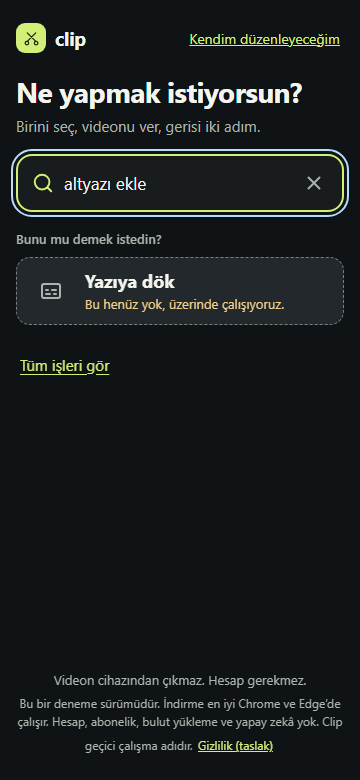
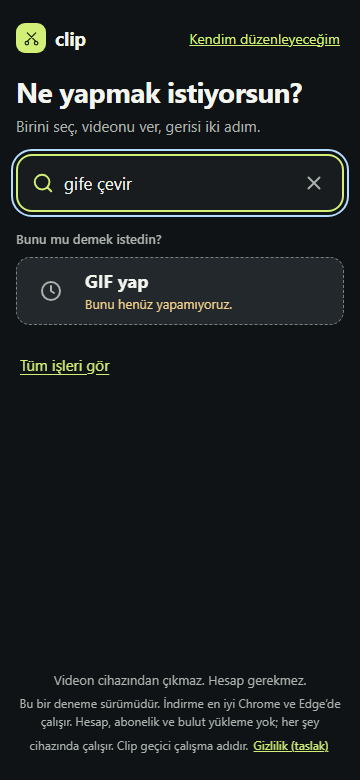
Ara kayıt: belgeler (ADR-034 kart listesi ve kurallar, README, kullanıcı testi kiti) ve ekran görüntüleri (01–05 yenilendi, 75-sesi-kapat-*)

diff --git a/docs/adr/ADR-034-task-first-home.md b/docs/adr/ADR-034-task-first-home.md
@@ -6,6 +6,9 @@
 > [ADR-030](ADR-030-kesit-flow-v2.md) (kesit editörü) aynen duruyor ve "Kes" işinin kendisi;
 > [ADR-031](ADR-031-phone-share-install-offline.md)'in manifest başlangıç adresi değişti.
 > Şema (EDL v2) ve politika (`2026-09-24.v6`) **değişmedi**; dışa aktarma motoru değişmedi.
+> **Güncelleme 7 Ekim 2026:** dokuzuncu kart "Sesi kapat"; yapılamayan on istek aramada dürüst
+> yanıt alıyor; arama kuralları 5 ve 7; müzik artık indirmenin tamamına yayılıyor (aşağıda
+> ilgili yerler güncellendi, sonda "Güncelleme — 7 Ekim 2026").
 
 ## Neden
 
@@ -37,8 +40,9 @@ arama olmadan çalışıyor; göreve göre düzenlenmiş gezinme özelliğe gör
 3. **Her iş bir sihirbaz**, kendi adresinde (`/yap/<id>/`): (1) "Videonu seç", (2) en fazla
    **bir** karar — varsayılanı seçili —, (3) "İndir" → ilerleme → "Kaydedildi" + "Paylaş".
    Sihirbazlar editörün kendi tarifini ve kendi indirme yolunu kullanır; yeni bir motor yok.
-4. **Henüz yapılmamış iş sahte gösterilmez:** kartı yoktur, sayfası yoktur; arama onu
-   kastederse "Bu henüz yok, üzerinde çalışıyoruz." yazar ve düğme çizmez.
+4. **Yapılamayan iş sahte gösterilmez:** kartı yoktur, sayfası yoktur; arama onu
+   kastederse "Bunu henüz yapamıyoruz." yazar ve düğme çizmez (7 Ekim 2026'ya kadar cümle "Bu
+   henüz yok, üzerinde çalışıyoruz." idi; söz vermediğimiz işler için söz veren cümle kaldırıldı).
 5. **Editör `/editor`'de aynen durur**; logosu açılış ekranına götürür.
 
 ## Açılış ekranı
@@ -47,8 +51,9 @@ arama olmadan çalışıyor; göreve göre düzenlenmiş gezinme özelliğe gör
 |---|---|
 | Kutu | `role="combobox"`, `aria-controls` ile sonuç listesine (`role="listbox"`), `aria-activedescendant` ile vurgulu sonuca bağlı; odak hep kutuda. ↑/↓ sonuçta gezer (başa sarar), Enter vurgulu sonucu başlatır, Esc kutuyu boşaltır, × de. Sonuç sayısı `role="status"` ile duyurulur ("2 sonuç. İlki: Dikey yap."). |
 | Örnek cümleler | "sessiz yerleri sil", "TikTok için dikey", "başını kes", "müzik koy": dokununca kutuya yazılır. Hepsi bugün çalışan bir işe götürür (birim testi). |
-| Kartlar | Kayıttaki sırayla, yalnızca `available: true` işler: Kes (dolu, öne çıkan kart), Boşlukları at, Dikey yap, Küçült, Müzik ekle, Sesini al, Her yerde açılsın (Küçült ve Sesini al [ADR-035](ADR-035-target-size-and-audio-only.md) ile açıldı). Kart bir bağlantıdır (JavaScript olmadan da çalışır), en az 126 px yüksek. Telefonda 2 sütun; 700 px'ten itibaren 3; 1000 px'ten itibaren satırları dolduruyorsa 4 (8 kart → 4 + 4; bugünkü 7 kart → 4 + 3; 5 kart → 3 + 2, tek kalan kart olmasın diye). Hiçbir kart gizlenmez. |
+| Kartlar | Kayıttaki sırayla, yalnızca `available: true` işler — bugün dokuz: Kes (dolu, öne çıkan kart), Boşlukları at, Dikey yap, Küçült, Yazıya dök, Müzik ekle, Sesini al, **Sesi kapat**, Her yerde açılsın (Küçült ve Sesini al [ADR-035](ADR-035-target-size-and-audio-only.md), Yazıya dök [ADR-036](ADR-036-on-device-transcript.md), Sesi kapat 7 Ekim 2026). Kart bir bağlantıdır (JavaScript olmadan da çalışır), en az 126 px yüksek. Telefonda 2 sütun; 700 px'ten itibaren 3; 1000 px'ten itibaren, son satırda tek kart kalmayacak biçimde 3 ya da 4 (`wideColumns`: önce satırları tam dolduran — 8 → 4 + 4, 9 → 3 + 3 + 3, 6 → 3 + 3 —, sonra son satırı en dolu olan — 7 → 4 + 3, 10 → 4 + 4 + 2, 5 → 3 + 2). Hiçbir kart gizlenmez. |
 | Yazınca | Kartlar ve örnekler yerini "Bunu mu demek istedin?" listesine bırakır (en fazla 3 satır; her satırda "Başla"). Kutuyu boşaltmak ya da "Tüm işleri gör" kartları geri getirir. Tek harf ya da yalnızca "video" yazmak henüz bir şey söylememektir: kartlar durur. |
+| Yapılamayan istek | Kayıtta `available: false` olan on giriş (döndür, hızlandır / yavaşlat, videoları birleştir, GIF, filigran ya da logo sil, filtre ve renk, arka plan, tersten oynat, videodan fotoğraf, titremeyi düzelt): satırda işin adı ve **"Bunu henüz yapamıyoruz."**, düğme yok, `aria-disabled`; Enter ve dokunma hiçbir şey başlatmaz; duyuru "1 sonuç. İlki: Döndür. Bunu henüz yapamıyoruz." Altında başka iş yapan bir kart önerilmez (kural 7). |
 | Bulunamadı | "Bunu bulamadım. Başka kelimelerle dene ya da bütün işlere bak." + "Tüm işleri gör". |
 | Yük | Açılış ekranı dışa aktarma motorunu (mediabunny) yüklemez, worker başlatmaz, başka kökene istek yapmaz (e2e). |
 
@@ -69,11 +74,17 @@ Girdi → sıralı işler; tamamı `searchTasks()` içinde, saf fonksiyon:
 4. **Puan:** güçlü kelime tam 3, kök/ön ek/yazım hatası 2; zayıf kelime ("ekle", "sil",
    "baş") tam 1, kök 0,75, yazım hatasıyla hiç.
 5. **Deyim:** birkaç sözcük sırayla geçiyorsa +4 ("her yerde", "sessiz yer", "make it
-   vertical"); deyimlerde atılan sözcükler de sayılır.
+   vertical"); deyimlerde atılan sözcükler de sayılır. İkinciden sonraki her sözcük +1: uzun
+   deyim daha özeldir ("arka plan değiştir" arka planla ilgilidir; yalnız "arka plan" müzik
+   isterken söylenir). Bir işin yalnızca en uzun deyimi sayılır. *(7 Ekim 2026)*
 6. **Sıralama:** puana göre; eşitlikte daha özel iş öne (herkesin her iş için söylediği
    "kes / cut / sil" genel işi geri çeker: "cut the pauses" → Boşlukları at), sonra kayıt
    sırası. En fazla üç sonuç, yalnızca en iyinin %40'ı ve üstü (tek bir zayıf kelime ikinci
    satır açmaz: "altyazı ekle" yalnızca Yazıya dök).
+7. **Yapılamayan iş birinciyse** ("gife çevir", "tiktok logosunu kaldır") yanıt "Bunu henüz
+   yapamıyoruz."dur ve isteğin yalnızca bir kelimesini taşıyan çalışan iş ("çevir" → Her yerde
+   açılsın, "tiktok" → Dikey yap) altında gösterilmez: çalışan bir işin satırı ancak puanı
+   birincinin %80'i ve üstüyse kalır ("döndür ve kes": ikisi de). *(7 Ekim 2026)*
 
 Kelime listeleri iş kaydındadır (`web/src/domain/tasks.ts`): her iş için güçlü kelimeler,
 zayıf kelimeler ve deyimler, Türkçe ve İngilizce.
@@ -91,10 +102,21 @@ zayıf kelimeler ve deyimler, Türkçe ve İngilizce.
   %86'dır, düzeltmeden sonraki sayı değil, çünkü tablo artık görülmüş bir tablodur.
   Test, oranın %80'in altına düşmesini engeller.
 
+- `tests/unit/taskSearchHeldOut2.test.ts` *(7 Ekim 2026)* — "Sesi kapat" ve yapılamayan istekler
+  için 95 cümle, o girişlerin listelerinden **önce** yazıldı. Üç ölçüm: eski kayıtla 13 / 95
+  (yalnızca zaten var olan işlerin 13 cümlesi; kalan 82'nin **44'ü başka iş yapan, "Başla"
+  düğmeli bir karta** gitti — 14 ses kapatma isteğinin 13'ü, yapılamayan 68 isteğin 31'i —,
+  38'i "Bunu bulamadım"a); yeni girişlerle ilk koşu **69 / 95 (%73)**, yapılamayan 68 isteğin
+  12'si hâlâ yanlış karta; kaçanlar listelerde düzeltildikten sonra 95 / 95, yanlış kart 0.
+  Dürüst tahmin %73'tür. Bu tablo ile listeleri aynı kişi aynı oturumda yazdı: "görülmemiş"
+  burada "listeler tabloya bakılmadan yazıldı" demektir, "kör" değil.
+
 Bilinen sınır: listede olmayan bir söyleyiş bulunmaz ("Bunu bulamadım" der, kartlar bir
-dokunuş ötededir); "sesini kapat" gibi karşılığı bir iş olmayan istekler yanlış işe
-(Sesini al) gidebilir. Gerçek kullanıcı cümleleri kullanıcı testlerinde toplanıp tabloya
-eklenmeli (docs/beta/USER_TEST_KIT.md, Görev 0).
+dokunuş ötededir). "Sesini kapat" artık "Sesi kapat"ı buluyor (7 Ekim 2026); yapılamayan on
+istek kendi dürüst satırını alıyor. Listelenmemiş bir yapılamayan istek (ör. "yüzleri
+bulanıklaştır", "videoya yazı ekle", "sesi değiştir", "çeviri altyazı") hâlâ ya bulunamaz ya
+da bir kelimesi tutan çalışan bir işe gider. Gerçek kullanıcı cümleleri kullanıcı testlerinde
+toplanıp tabloya eklenmeli (docs/beta/USER_TEST_KIT.md, Görev 0).
 
 ## İş kaydı ve sihirbaz çatısı
 
@@ -108,10 +130,12 @@ buradan okur.
 | Boşlukları at (`bosluk`) | evet | video → karar → indir | "Uzun boşluklar" (varsayılan) / "Kısa duraksamalar da" |
 | Dikey yap (`dikey`) | evet | video → karar → indir | "Doldur" (varsayılan) / "Sığdır" |
 | Küçült (`kucult`) | evet (ADR-035) | video → karar → indir | Nereye sığsın: "Paylaşmak için (52 MB altı)" (varsayılan) / "E-posta (25 MB altı)" / "WhatsApp (16 MB altı)"; her seçenek sonucu baştan söyler ("≈ 15,4 MB · 720p", "Videon zaten bunun altında", "Bu video buna sığmaz: en az … gerekir") |
-| Yazıya dök (`yazi`) | **hayır** | — | (cihazda transkript denemesi sürüyor) |
+| Yazıya dök (`yazi`) | evet (ADR-036) | video → karar → indir | (model indirme ve yazıya dökme; ayrıntı ADR-036) |
 | Müzik ekle (`muzik`) | evet | video → karar → indir | Videonun sesi "Kalsın" (varsayılan) / "Kapansın" |
 | Sesini al (`ses`) | evet (ADR-035) | video → indir | — (ses M4A olarak kaydedilir; sessiz videoda İndir kapalı ve sebebi yazılı) |
+| Sesi kapat (`sustur`) | evet (7 Ekim 2026) | video → indir | — (aynı video, ses izi olmadan; sesi olmayan videoda İndir kapalı ve sebebi yazılı) |
 | Her yerde açılsın (`cevir`) | evet | video → indir | — |
+| Döndür (`dondur`), Hızlandır ya da yavaşlat (`hiz`), Videoları birleştir (`birlestir`), GIF yap (`gif`), Filigran ya da logo sil (`filigran`), Filtre ve renk (`efekt`), Arka planı değiştir (`arkaplan`), Tersten oynat (`ters`), Videodan fotoğraf al (`foto`), Titremeyi düzelt (`stabil`) | **hayır** (7 Ekim 2026) | — | Motoru yok. Kartı, sayfası, sihirbazı yok; yalnızca aramanın "Bunu henüz yapamıyoruz." demesi için kayıttalar. |
 
 **Bir işi açmak:** `tasks.ts`'te `available: true` (tek satır) + `components/wizard/wizards.tsx`
 içinde sihirbaz bileşeni ve `WIZARDS` tablosunda satırı. Tablo `Record<AvailableTaskId, …>`
@@ -178,11 +202,28 @@ geri alma adımı).
 (dışa aktarmanın yaptığı orta kırpma / kenar boşluğuyla aynı geometri). Zaten 9:16 olan video
 için karar yok: "Bu video zaten dikey: görüntü aynı kalır, 1080 × 1920 olarak kaydedilir."
 
+**Sesi kapat** *(7 Ekim 2026)*. Karar yok. "Aynı video, sesi olmadan kaydedilir." Tarif kesitsizdir
+(bütün video), videonun sesi kapalıdır (editördeki "Sesi kapat" anahtarı), müzik yoktur; çıktıda
+**ses izi yoktur** — sessizlik izi değil. Neden: (1) her oynatıcı ve paylaşım uygulaması ses izi
+olmayan MP4'ü "sessiz video" olarak gösterir, sessizlik izi ise "sesi var ama duyulmuyor"
+görünür; (2) sessizlik izi boşuna bayt harcar (128 kbit/s AAC ≈ dakikada 1 MB) ve ADR-032'nin
+kodlayıcı gecikmesi / düzenleme listesi inceliklerini hiçbir şey için taşır; (3) motor bu dosyayı
+sesi olmayan kaynaklar için zaten yazıyor ve testler onu zaten ölçüyor — yeni bir yol açılmadı.
+Hızlı kesim (ADR-027) izin veriyorsa görüntü kopyalanır (sonuçtaki yöntem satırı: "Hızlı kesim —
+görüntü yeniden kodlanmadı, orijinal kalite"); değilse yeniden işlenir ve satır onu söyler.
+Önizleme sessiz oynar. Sesi olmayan videoda "Bu videoda zaten ses yok; kapatılacak bir şey yok."
+— İndir kapalı. Ölçülen (Playwright Chromium, 24 sn'lik 720p H.264 + AAC): kaydedilen dosyada tek
+akış `video:h264`, 24 sn, 1280 × 720, kareler kaynağın aynısı (0,5 / 11 / 23. sn'de fark < 1 / 255),
+dosya kaynaktan küçük; tarayıcının kendi oynatıcısı oynatıyor, çözdüğü ses baytı 0. **Denenmedi:**
+telefon, iOS / Safari, WhatsApp ve Instagram'ın ses izi olmayan videoyu nasıl gösterdiği.
+
 **Müzik ekle.** Kullanıcı kendi müzik dosyasını seçer (dosya seçmek karar sayılmaz). Karar:
 videonun kendi sesi "Kalsın" (müzik arkada, −12 dB) / "Kapansın" (yalnızca müzik, 0 dB). Müzik
 videodan uzunsa videonun sonunda 1,5 sn'de kısılır; kısaysa kendi sonunda biter ve söylenir
 ("Müzik videodan kısa: … sonra biter."). Sesi olmayan videoda soru sorulmaz, müzik tam seviyede.
-Müzik seçilmeden "İndir" kapalıdır ve nedenini söyler.
+Müzik seçilmeden "İndir" kapalıdır ve nedenini söyler. *(7 Ekim 2026: sihirbaz artık bütün videoyu
+tek kesit yapmıyor; müzik kesitsiz tarifte de indirmenin tamamına yayılıyor —
+`web/src/domain/musicFit.ts`. Editöre geçince kesit listesi boştur, üstte "Videoyu indir".)*
 
 **Her yerde açılsın.** Karar yok. "iPhone, HEVC ya da HDR videolar her cihazda açılan MP4
 olur." Çıktı H.264 + AAC MP4, videonun kendi çerçevesinde. Kaynak zaten öyleyse (H.264, AAC ya
@@ -198,9 +239,9 @@ değişmedi.
 
 ## Bilerek gösterilmeyenler
 
-- **Yazıya dök'ün kartı.** Çalışmayan bir işe kart koymak, basınca "henüz yok" demek olurdu.
-  Arama kastederse dürüst satır var; kart yok. (Küçült ve Sesini al, motorları gelince
-  ADR-035 ile kart oldu.)
+- **Yapılamayan işlerin kartı.** Çalışmayan bir işe kart koymak, basınca "yapamıyoruz" demek
+  olurdu. Arama kastederse dürüst satır var; kart yok. (Küçült ve Sesini al ADR-035, Yazıya dök
+  ADR-036 ile motorları gelince kart oldu; bugün kartsız on giriş yukarıdaki tabloda.)
 - **Editörün ayarları** (kare oranı, yakınlaştırma, kalite, ses seviyeleri, müzik aralığı ve
   geçişleri, altyazı, sessizliklerin tek tek listesi ve "Dinle"). Sihirbazda tek karar var;
   gerisi "Daha fazla ayar → editörde aç".
@@ -250,9 +291,10 @@ Koşu sayıları: bu belgenin sonundaki "Doğrulama".
   Playwright'ın Chromium'uyla. Kullanıcı testi kiti açılış ekranından başlayacak şekilde güncellendi.
 - Sihirbazda müzikle videonun birlikte dinlenmesi yok (müzik ve video ayrı ayrı oynatılır);
   birlikte önizleme editörde.
-- Editörde (ADR-026'dan beri var olan) bir durum: kesit yokken eklenen müzik yalnızca en kısa
-  kesit uzunluğu kadar seçilir. Sihirbaz bunu videonun tamamını tek kesit yaparak aşar; editörün
-  kendi davranışına dokunulmadı.
+- ~~Editörde kesit yokken eklenen müzik yalnızca en kısa kesit uzunluğu kadar (0,1 sn) seçilir;
+  sihirbaz bunu videonun tamamını tek kesit yaparak aşar.~~ **Düzeltildi (7 Ekim 2026):** kaydedilen
+  dosyada ölçüldü (12 sn'lik video, müzik yalnızca ilk 0,1 sn'de), kök neden komutta giderildi,
+  sihirbazın dolanması kaldırıldı. Ayrıntı sondaki güncellemede.
 - Arama yalnızca Türkçe ve İngilizce kelime bilir; arayüz dili Türkçe (EN çevirileri
   `messages.ts`'te hazır, dil seçimi yok).
 

diff --git a/README.md b/README.md
@@ -5,7 +5,7 @@
 [![CI](https://github.com/erenulutas0/capcut/actions/workflows/ci.yml/badge.svg)](https://github.com/erenulutas0/capcut/actions/workflows/ci.yml)
 
 > Durum: görev öncelikli açılış ekranı ("Ne yapmak istiyorsun?": iş kartları + yazarak
-> bulma, beş sihirbaz; [ADR-034](docs/adr/ADR-034-task-first-home.md)),
+> bulma, dokuz sihirbaz; [ADR-034](docs/adr/ADR-034-task-first-home.md)),
 > kesit listesi editörü (işaretle, ekle, kartından indir; ADR-026),
 > kaydetme penceresiyle doğrudan dosyaya indirme, gerçek MP4 çıktısı, yerel kayıt,
 > altyazı (elle, SRT/VTT, görüntüye bağlı, videoya işleme) ve yerel sessizlik
@@ -21,8 +21,11 @@ kısa bir sihirbazdır: video seç → en fazla bir karar → İndir. Bugün ça
 **Boşlukları at**, **Dikey yap**, **Küçült** (WhatsApp, e-posta ya da paylaşım sınırına
 sığdırır), **Yazıya dök** (İngilizce konuşmayı bu cihazda zaman damgalı yazıya ve altyazıya
 çevirir; [ADR-036](docs/adr/ADR-036-on-device-transcript.md)), **Müzik ekle**, **Sesini al**
-(videonun sesi M4A olarak), **Her yerde açılsın**. Editör "Kendim düzenleyeceğim" bağlantısıyla
-bir dokunuş ötededir.
+(videonun sesi M4A olarak), **Sesi kapat** (aynı video, ses izi olmadan), **Her yerde açılsın**.
+Henüz yapılamayan bir şey yazılırsa (döndür, hızlandır, videoları birleştir, GIF, filigran sil,
+filtre, arka plan, tersten oynat, videodan fotoğraf, titremeyi düzelt) arama başka bir kart
+önermez, "Bunu henüz yapamıyoruz." der. Editör "Kendim düzenleyeceğim" bağlantısıyla bir
+dokunuş ötededir.
 
 Editörde kullanıcı kendi videosunda tutmak istediği aralıkları işaretler; her aralık
 "Kesitler" listesine düşer. Her kesit kendi ⬇ düğmesiyle ayrı indirilir ya da
@@ -40,7 +43,8 @@ cd web && npm install && npm run dev
 ```
 
 Ardından tarayıcıda **http://localhost:3000** (açılış ekranı) → sihirbazlar: **/yap/kes**,
-**/yap/bosluk**, **/yap/dikey**, **/yap/muzik**, **/yap/cevir** → editör: **/editor**
+**/yap/bosluk**, **/yap/dikey**, **/yap/kucult**, **/yap/yazi**, **/yap/muzik**, **/yap/ses**,
+**/yap/sustur**, **/yap/cevir** → editör: **/editor**
 
 Üretim derlemesi:
 
@@ -171,12 +175,16 @@ cd web && node scripts/generate-test-media.mjs && node scripts/generate-fixtures
   yazarak bulma (cihazda, kelime listesiyle; yapay zekâ ve ağ isteği yok). Sihirbazlar: Kes
   (kesit editörünü seçilen videoyla açar), Boşlukları at (sessiz yerleri bulur, "N sessiz yer
   bulundu, videon kısalacak: X → Y", 20 parça sınırını söyler), Dikey yap (1080 × 1920;
-  "Doldur" / "Sığdır", canlı önizleme), Müzik ekle (videonun sesi kalsın / kapansın), Her yerde
-  açılsın (H.264/AAC MP4; zaten uygunsa söyler ve görüntüyü kopyalar). Her sihirbazda "Daha
+  "Doldur" / "Sığdır", canlı önizleme), Müzik ekle (videonun sesi kalsın / kapansın), Sesi kapat
+  (aynı video ses izi olmadan; uygunsa görüntü kopyalanır), Her yerde açılsın (H.264/AAC MP4;
+  zaten uygunsa söyler ve görüntüyü kopyalar). Yapılamayan on istek aramada "Bunu henüz
+  yapamıyoruz." yanıtını alır (kartı ve sayfası yoktur). Her sihirbazda "Daha
   fazla ayar → editörde aç": aynı video ve ayarlarla, dosya yeniden seçilmeden. Sihirbazdan
   başlayan çalışma tarayıcıya kaydedilmez.
 - 9:16 / 16:9 / 1:1 oranları, doldur/sığdır ve merkezden yakınlaştırma.
-- Kendi ses dosyasını ekleme; bölüm, çıktı başlangıcı, seviye ve fade ayarları.
+- Kendi ses dosyasını ekleme; bölüm, çıktı başlangıcı, seviye ve fade ayarları. Müzik, eklendiği
+  anda indirilecek videonun tamamına yayılır (kesit yoksa bütün video) ve kesitler değiştikçe
+  onu izler; elle verilen aralığa dokunulmaz (`web/src/domain/musicFit.ts`).
 - Domain değişikliklerinde undo/redo (son 100 adım).
 - **Otomatik yerel kayıt:** düzenleme tarifi 500 ms gecikmeyle bu tarayıcıya
   yazılır. "Kaydedildi" yalnızca yazma gerçekten tamamlandıysa gösterilir;

diff --git a/docs/beta/USER_TEST_KIT.md b/docs/beta/USER_TEST_KIT.md
@@ -33,11 +33,22 @@ yazdı, "Kendim düzenleyeceğim"e mi gitti — hangisini neden seçtiği not al
      büyüyecek — `web/tests/unit/taskSearchHeldOut.test.ts`.)
    - "Doldur" ile "Sığdır" arasındaki farkı önizlemeden anladı mı?
    - "Kaydedildi"den sonra ne yaptı: "Paylaş", "Başka bir video", "Ana ekrana dön"?
-   - Aradığı iş yoksa ("Bu henüz yok, üzerinde çalışıyoruz." ya da "Bunu bulamadım.") ne yaptı?
+   - Aradığı iş yoksa ("Bunu henüz yapamıyoruz." ya da "Bunu bulamadım.") ne yaptı? Yanıtı
+     anladı mı, başka kelimeyle mi denedi, bıraktı mı?
 0b. **Serbest istek:** "Bu videoyla yapmak istediğin başka bir şey var mı? Dene." Yazdığı ya da
-   aradığı şey ve sonucu not alınır (bulundu / henüz yok / bulunamadı / yanlış iş çıktı).
-   Sihirbazı olan diğer işler: "Boşlukları at" (3 dokunuş), "Müzik ekle" (4), "Her yerde
-   açılsın" (3).
+   aradığı şey ve sonucu not alınır (bulundu / yapamıyoruz / bulunamadı / yanlış iş çıktı).
+   Sihirbazı olan diğer işler: "Boşlukları at" (3 dokunuş), "Müzik ekle" (4), "Sesini al" (3),
+   "Sesi kapat" (3), "Küçült" (3–4), "Her yerde açılsın" (3). **"Yanlış iş çıktı" en önemli
+   sonuçtur:** yazdığı cümleyi ve çıkan kartı aynen not al. 7 Ekim 2026'dan beri yapılamayan on
+   istek (döndür, hızlandır / yavaşlat, videoları birleştir, GIF, filigran ya da logo sil, filtre
+   ve renk, arka plan, tersten oynat, videodan fotoğraf, titremeyi düzelt) "Bunu henüz
+   yapamıyoruz." yanıtını alıyor; bunların dışında bir istek yanlış karta giderse o da yeni bir
+   satırdır (`web/tests/unit/taskSearchHeldOut2.test.ts`).
+0c. **Sesi kapat (yeni, 7 Ekim 2026):** "Bu videonun sesini kapatıp kaydet." Beklenen yol:
+   "Sesi kapat" kartı (ya da "sesini kapat" yazmak) → "Video seç" → "İndir" (3 dokunuş). Not
+   al: "Sesini al" ile karıştırdı mı; kaydedilen dosyayı kendi oynatıcısında açınca sessiz
+   olduğunu gördü mü; paylaştığı uygulama (WhatsApp, Instagram…) sessiz videoyu nasıl gösterdi
+   (bu **ölçülmedi**: dosyada ses izi yok, sessizlik izi değil).
 1. **Klip:** "Videondan en sevdiğin iki bölümü seç, 30–45 saniyelik dikey bir video
    hazırla ve bilgisayarına indir."
    Beklenen başlangıç: açılış ekranında **"Kes"** kartı → "Video seç" → kesit editörü aynı
@@ -137,7 +148,8 @@ Video: süre ≈   kaynak (telefon marka/model, katılımcı biliyorsa):
 
 Görev 0  başarı: E/Y/B   aktif süre:   yol: kart / yazarak / editör   kutuya yazdığı (aynen):
          "Doldur/Sığdır" anlaşıldı: E/H   kaydetme penceresi: sorunsuz/şaşırttı   sonra: Paylaş / başka video / ana ekran
-Görev 0b istediği (aynen):   sonuç: bulundu / henüz yok / bulunamadı / yanlış iş
+Görev 0b istediği (aynen):   sonuç: bulundu / yapamıyoruz / bulunamadı / yanlış iş (çıkan kart:      )
+Görev 0c başarı: E/Y/B   yol: kart / yazarak (yazdığı:      )   "Sesini al"a gitti mi: E/H   dosya sessiz: E/H   paylaşılan uygulamada:
 Görev 1  başlangıç: Kes kartı / Kendim düzenleyeceğim / yazarak
 Görev 1  başarı: E/Y/B   aktif süre:   export süresi:   takıldığı yer:
          kart "İndir" / "Hepsini birleştirip indir" farkı anlaşıldı: E/H   kaydetme penceresi: sorunsuz/şaşırttı

diff --git a/docs/ux/2026-10-03-home/README.md b/docs/ux/2026-10-03-home/README.md
@@ -25,14 +25,15 @@ Taslak tuvali: https://claude.ai/artifact/Q4V3e67pHd5KiAVLNU9rkW (özel bağlant
 
 Karar kaydı: [ADR-034](../../adr/ADR-034-task-first-home.md). Taslaklardan farklar:
 
-- Taslaklarda sekiz kart vardı; **yalnızca çalışan yedi işin** kartı gösteriliyor (Kes,
-  Boşlukları at, Dikey yap, Küçült, Müzik ekle, Sesini al, Her yerde açılsın; Küçült ve
-  Sesini al ADR-035 ile eklendi). Yazıya dök hazır olunca kartı kendiliğinden gelir
-  (kayıtta tek satır).
+- Taslaklarda sekiz kart vardı; **yalnızca çalışan işlerin** kartı gösteriliyor — 7 Ekim 2026'da
+  dokuz: Kes, Boşlukları at, Dikey yap, Küçült, Yazıya dök, Müzik ekle, Sesini al, Sesi kapat,
+  Her yerde açılsın (Küçült ve Sesini al ADR-035, Yazıya dök ADR-036, Sesi kapat 7 Ekim 2026).
+  Bir iş hazır olunca kartı kendiliğinden gelir (kayıtta tek satır).
 - Taslak C'nin "En çok kullanılanlar" başlığı yok (kullanım ölçmüyoruz); başlık "Bütün işler".
 - Kutudaki örnek "videom WhatsApp’a sığmıyor" değil "sessiz yerleri sil": örnek, bugün
-  çalışan bir işe götürmeli. (WhatsApp cümlesi artık Küçült'ü buluyor; "Bu henüz yok,
-  üzerinde çalışıyoruz." cümlesini bugün yalnızca Yazıya dök'ü kasteden aramalar alıyor.)
+  çalışan bir işe götürmeli. (WhatsApp cümlesi artık Küçült'ü buluyor. Yapılamayan on istek —
+  döndür, hızlandır, birleştir, GIF, filigran sil… — 7 Ekim 2026'dan beri "Bunu henüz
+  yapamıyoruz." yanıtını alıyor; cümle eskiden "Bu henüz yok, üzerinde çalışıyoruz." idi.)
 - Taslak B'nin "Bu videoyla ne yapalım?" listesi yok: önce iş seçiliyor, "Video seç"
   sihirbazın ilk adımı.
 
@@ -41,10 +42,11 @@ Ekran görüntüleri (çalışan uygulamadan, Playwright; `web/scripts/home-shot
 
 | Dosya | Ekran |
 |---|---|
-| `01-home` | Açılış ekranı |
+| `01-home` | Açılış ekranı (7 Ekim 2026: dokuz kart; geniş ekranda 3 + 3 + 3) |
 | `02-search-results` | Arama: "tiktok için dikey" → Dikey yap |
 | `03-search-two-results` | Arama: "sesi kes" → Kes + Sesini al |
-| `04-search-unavailable` | Arama: "altyazı ekle" → "Bu henüz yok" |
+| `04-search-unavailable` | Arama: "gife çevir" → "GIF yap — Bunu henüz yapamıyoruz.", düğme yok, altında başka kart yok (7 Ekim 2026; eskiden "altyazı ekle" ile çekilmişti) |
+| `75-sesi-kapat-0-search`, `-1-pick`, `-2-info`, `-3-saved` | Sesi kapat (7 Ekim 2026): "sesini kapat" araması → video seç → tek açıklama → "Kaydedildi" (yöntem satırı: hızlı kesim) |
 | `60-kucult-2-choice`, `61-kucult-3-saved` | Küçült: üç hedef ve her birinin sonucu → kaydedildi, gerçek boyut hedefe karşı |
 | `70-ses-2-info`, `71-ses-3-saved` | Sesini al: tek açıklama → "Ses dosyası kaydedildi" |
 | `80-yazi-2-model`, `81-yazi-2-ready`, `82-yazi-2-running` | Yazıya dök (ADR-036): "Modeli indir (≈108,8 MB, bir kez)" → model hazır, "Yazıya dök" → gerçek sayılarla ilerleme |

diff --git a/web/README.md b/web/README.md
@@ -22,9 +22,14 @@ Kurulum ve komutlar için depo kökündeki [README](../README.md) dosyasına bak
   kelimeleri). Arama: `src/domain/taskSearch.ts` (cihazda, kelime listesiyle; ağ yok).
 - Sihirbaz çatısı: `src/components/wizard/` — `TaskWizard` (sayfa; editörün durum kancası,
   proje saklamadan), `WizardFlow` (video seç → karar → indir), `useWizardExport`
-  (dışa aktarmaya giden tek yol; ek seçenekler `extras`), `wizards.tsx` (beş sihirbaz).
+  (dışa aktarmaya giden tek yol; ek seçenekler `extras`), `wizards.tsx` (dokuz sihirbaz).
 - **Yeni bir işi açmak:** `tasks.ts`'te `available: true` + `wizards.tsx`'te bileşeni ve
   `WIZARDS` tablosundaki satırı. Bileşen eksikse `npm run typecheck` derlemez.
+- **Yapılamayan bir isteği dürüstçe yanıtlamak:** `tasks.ts`'te `available: false` bir giriş
+  (simgesi `taskLater`, kelimeleri, `task.<id>.label` / `.sub` mesajları). Kartı, sayfası ve
+  sihirbazı olmaz; arama "Bunu henüz yapamıyoruz." der. Cümleleri önce
+  `tests/unit/taskSearchHeldOut2.test.ts`'e (listelere dokunmadan ölç), sonra
+  `taskSearch.test.ts`'e ekle.
 - Ekran görüntüleri: `node scripts/home-shots.mjs` → `docs/ux/2026-10-03-home/shots/`.
 
 ## Fixture'lar
